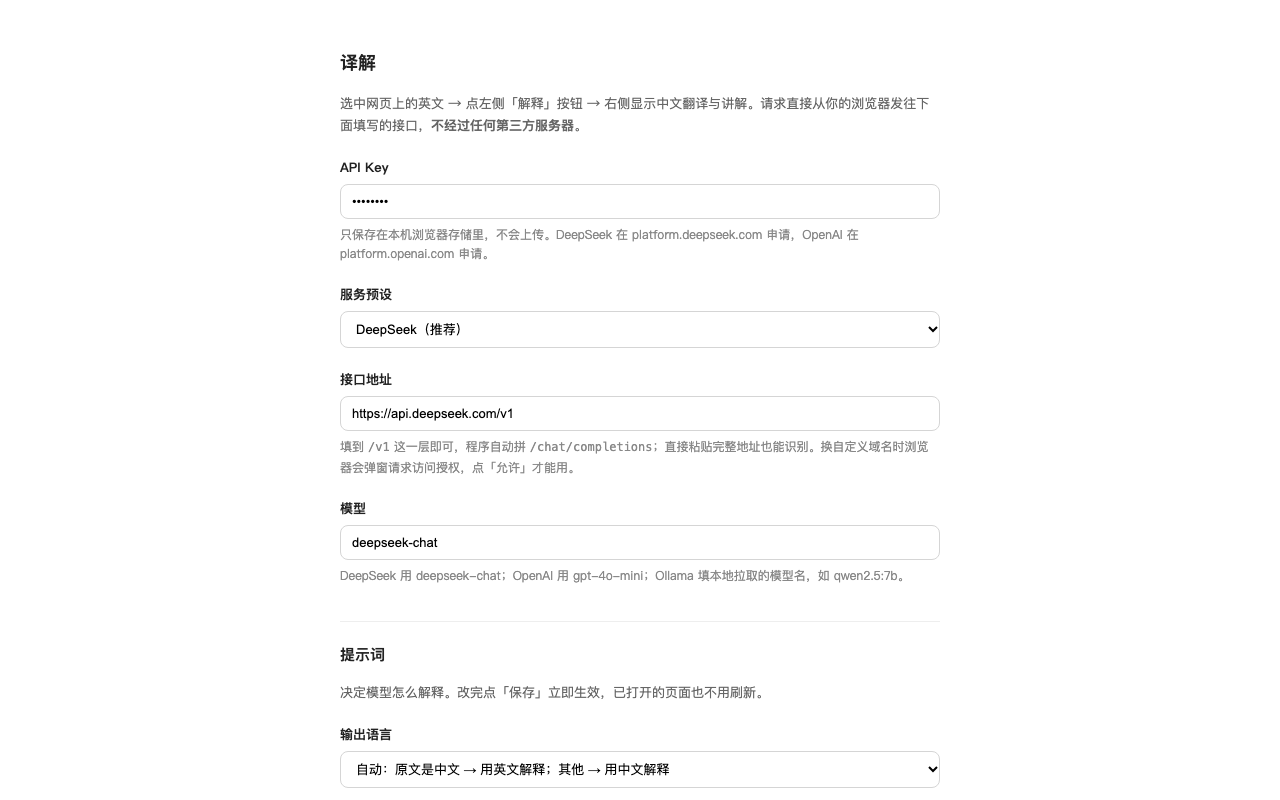
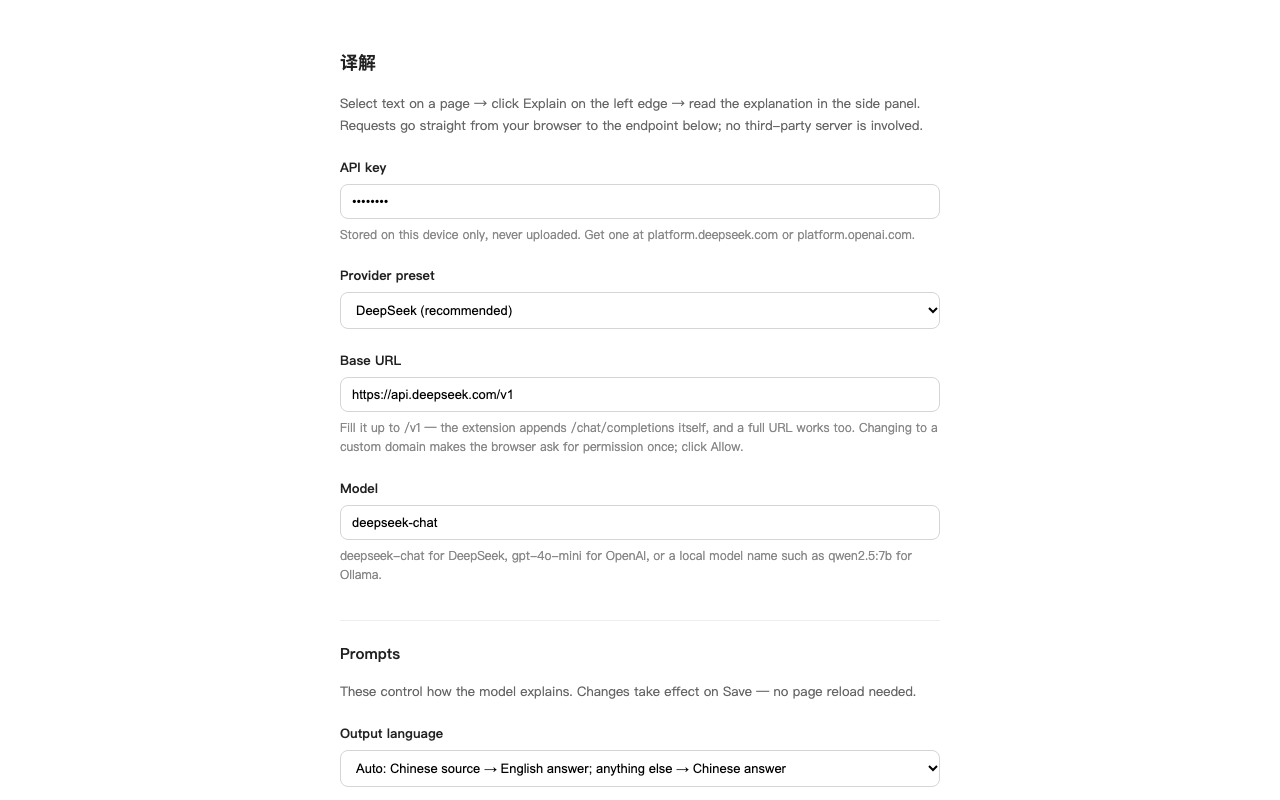
feat: 设置页按浏览器语言切换中英文
- 49 个界面字符串抽成 STR.zh / STR.en，HTML 用 data-i18n 标注
- 语言由 navigator.language 决定，与「输出语言」设置相互独立
- 状态提示、按钮、空状态、错误文案全部本地化
- 重截商店设置页截图（英文界面）
- 已验证：49 个键在中英两套里一一对应，无遗漏无冗余

diff --git a/src/options.js b/src/options.js
@@ -14,6 +14,130 @@ const PRESETS = {
   ollama: { baseUrl: "http://localhost:11434/v1", model: "qwen2.5:7b" }
 };
 
+// 设置页跟着浏览器语言走（和面板不同：面板跟的是"这次输出什么语言"）
+const UI_LANG = String(navigator.language || "en").toLowerCase().startsWith("zh") ? "zh" : "en";
+
+const STR = {
+  zh: {
+    pageTitle: "译解 · 设置",
+    intro: "选中网页上的文字 → 点左侧「解释」按钮 → 右侧显示中文翻译与讲解。请求直接从你的浏览器发往下面填写的接口，不经过任何第三方服务器。",
+    apiKeyLabel: "API Key",
+    apiKeyPlaceholder: "粘贴你的 API Key",
+    apiKeyHint: "只保存在本机浏览器存储里，不会上传。DeepSeek 在 platform.deepseek.com 申请，OpenAI 在 platform.openai.com 申请。",
+    presetLabel: "服务预设",
+    presetDeepseek: "DeepSeek（推荐）",
+    presetOpenai: "OpenAI",
+    presetOllama: "本地 Ollama",
+    presetCustom: "自定义 / 其他 OpenAI 兼容服务",
+    baseUrlLabel: "接口地址",
+    baseUrlHint: "填到 /v1 这一层即可，程序自动拼 /chat/completions；直接粘贴完整地址也能识别。换自定义域名时浏览器会弹窗请求访问授权，点「允许」才能用。",
+    modelLabel: "模型",
+    modelHint: "DeepSeek 用 deepseek-chat；OpenAI 用 gpt-4o-mini；Ollama 填本地拉取的模型名，如 qwen2.5:7b。",
+    promptsTitle: "提示词",
+    promptsIntro: "决定模型怎么解释。改完点「保存」立即生效，已打开的页面也不用刷新。",
+    outputLangLabel: "输出语言",
+    outputLangAuto: "自动：原文是中文 → 用英文解释；其他 → 用中文解释",
+    outputLangZh: "始终用中文解释",
+    detailsEnZh: "英文原文 → 中文讲解",
+    defaultPromptLabel: "默认提示词 · 点「解释」时使用",
+    detailPromptLabel: "详解提示词 · 面板里点「详解」时使用",
+    detailsZhEn: "中文原文 → English explanation",
+    zhEnHint: "选中中文时用这两段，输出英文，给读中文网站的英语用户。上方「输出语言」选「始终中文」时这两段不生效。",
+    zhDefaultLabel: "默认提示词 · 点「解释」时使用",
+    zhDetailLabel: "详解提示词 · 面板里点「详解」时使用",
+    save: "保存",
+    test: "测试连接",
+    resetPrompts: "恢复默认提示词",
+    clearKey: "清除 Key",
+    disabledTitle: "已禁用的站点",
+    disabledIntro: "在面板里点「本站禁用」会加到这里。点「恢复」立刻生效，不用刷新页面。",
+    restoreAll: "全部恢复",
+    usage: "用法：选中一段文字 → 点屏幕左侧「解释」按钮（或按 Alt+E）→ 右侧弹出面板，可切「详解」、可复制。",
+    needKey: "请先填写 API Key",
+    saved: "✅ 已保存",
+    noPermission: "❌ 没有获得访问 {origin} 的授权，无法调用接口",
+    promptsReset: "已恢复默认提示词，记得点保存",
+    keyCleared: "已清除 Key",
+    testing: "测试中…",
+    testOk: "✅ 连接成功",
+    test401: "❌ Key 无效：",
+    test404: "❌ 地址或模型不对：",
+    testFail: "❌ ",
+    testNet: "❌ 连不上该地址：检查地址、网络或代理",
+    presetFilled: "已填入预设，记得点保存",
+    noneDisabled: "（还没有禁用的站点）",
+    restore: "恢复",
+    restoredAll: "已恢复所有站点"
+  },
+  en: {
+    pageTitle: "Yijie · Settings",
+    intro: "Select text on a page → click Explain on the left edge → read the explanation in the side panel. Requests go straight from your browser to the endpoint below; no third-party server is involved.",
+    apiKeyLabel: "API key",
+    apiKeyPlaceholder: "Paste your API key",
+    apiKeyHint: "Stored on this device only, never uploaded. Get one at platform.deepseek.com or platform.openai.com.",
+    presetLabel: "Provider preset",
+    presetDeepseek: "DeepSeek (recommended)",
+    presetOpenai: "OpenAI",
+    presetOllama: "Local Ollama",
+    presetCustom: "Custom / another OpenAI-compatible service",
+    baseUrlLabel: "Base URL",
+    baseUrlHint: "Fill it up to /v1 — the extension appends /chat/completions itself, and a full URL works too. Changing to a custom domain makes the browser ask for permission once; click Allow.",
+    modelLabel: "Model",
+    modelHint: "deepseek-chat for DeepSeek, gpt-4o-mini for OpenAI, or a local model name such as qwen2.5:7b for Ollama.",
+    promptsTitle: "Prompts",
+    promptsIntro: "These control how the model explains. Changes take effect on Save — no page reload needed.",
+    outputLangLabel: "Output language",
+    outputLangAuto: "Auto: Chinese source → English answer; anything else → Chinese answer",
+    outputLangZh: "Always answer in Chinese",
+    detailsEnZh: "English source → Chinese explanation",
+    defaultPromptLabel: "Default prompt · used by Explain",
+    detailPromptLabel: "Detailed prompt · used by the Detailed button",
+    detailsZhEn: "Chinese source → English explanation",
+    zhEnHint: "Used when the selection is Chinese; the answer comes back in English. Ignored when Output language is set to Always Chinese.",
+    zhDefaultLabel: "Default prompt · used by Explain",
+    zhDetailLabel: "Detailed prompt · used by the Detailed button",
+    save: "Save",
+    test: "Test connection",
+    resetPrompts: "Reset prompts",
+    clearKey: "Clear key",
+    disabledTitle: "Disabled sites",
+    disabledIntro: "Sites you turned off from the panel appear here. Restore takes effect immediately, no page reload.",
+    restoreAll: "Restore all",
+    usage: "Usage: select some text → click Explain on the left edge (or press Alt+E) → the panel opens with a Detailed toggle and Copy.",
+    needKey: "Enter an API key first",
+    saved: "✅ Saved",
+    noPermission: "❌ Permission to reach {origin} was not granted",
+    promptsReset: "Default prompts restored — remember to save",
+    keyCleared: "Key cleared",
+    testing: "Testing…",
+    testOk: "✅ Connected",
+    test401: "❌ Invalid key: ",
+    test404: "❌ Wrong URL or model: ",
+    testFail: "❌ ",
+    testNet: "❌ Cannot reach that URL — check the address, network or proxy",
+    presetFilled: "Preset filled — remember to save",
+    noneDisabled: "(no disabled sites)",
+    restore: "Restore",
+    restoredAll: "All sites restored"
+  }
+};
+
+const T = STR[UI_LANG];
+const t = (key) => T[key] || key;
+
+function applyI18n() {
+  document.documentElement.lang = UI_LANG === "zh" ? "zh-CN" : "en";
+  document.title = t("pageTitle");
+  document.querySelectorAll("[data-i18n]").forEach((el) => {
+    el.textContent = t(el.dataset.i18n);
+  });
+  document.querySelectorAll("[data-i18n-placeholder]").forEach((el) => {
+    el.placeholder = t(el.dataset.i18nPlaceholder);
+  });
+}
+
+applyI18n();
+
 function status(text) {
   $("status").textContent = text;
 }
@@ -96,13 +220,13 @@ $("preset").addEventListener("change", () => {
   if (!p) return;
   $("baseUrl").value = p.baseUrl;
   $("model").value = p.model;
-  status("已填入预设，记得点保存");
+  status(t("presetFilled"));
 });
 
 $("save").addEventListener("click", async () => {
   const apiKey = cleanKey($("apiKey").value);
   if (!apiKey) {
-    status("请先填写 API Key");
+    status(t("needKey"));
     return;
   }
   const baseUrl = cleanBase($("baseUrl").value);
@@ -115,7 +239,7 @@ $("save").addEventListener("click", async () => {
 
   const granted = await ensureHostPermission(baseUrl);
   if (!granted) {
-    status("❌ 没有获得访问 " + originOf(baseUrl) + " 的授权，无法调用接口");
+    status(t("noPermission").replace("{origin}", originOf(baseUrl)));
     return;
   }
   chrome.storage.local.set(
@@ -123,7 +247,7 @@ $("save").addEventListener("click", async () => {
     () => {
       $("baseUrl").value = baseUrl;
       $("preset").value = matchPreset(baseUrl);
-      status("✅ 已保存");
+      status(t("saved"));
     }
   );
 });
@@ -133,13 +257,13 @@ $("resetPrompts").addEventListener("click", () => {
   $("detailPrompt").value = DEFAULT_DETAIL;
   $("systemPromptZh").value = DEFAULT_SYSTEM_ZH;
   $("detailPromptZh").value = DEFAULT_DETAIL_ZH;
-  status("已恢复默认提示词，记得点保存");
+  status(t("promptsReset"));
 });
 
 $("clearKey").addEventListener("click", () => {
   chrome.storage.local.remove("apiKey", () => {
     $("apiKey").value = "";
-    status("已清除 Key");
+    status(t("keyCleared"));
   });
 });
 
@@ -151,7 +275,7 @@ function renderDisabled() {
     if (!list.length) {
       const empty = document.createElement("p");
       empty.className = "hint";
-      empty.textContent = "（还没有禁用的站点）";
+      empty.textContent = t("noneDisabled");
       box.appendChild(empty);
       return;
     }
@@ -162,7 +286,7 @@ function renderDisabled() {
       name.textContent = host;
       const btn = document.createElement("button");
       btn.className = "ghost";
-      btn.textContent = "恢复";
+      btn.textContent = t("restore");
       btn.addEventListener("click", () => {
         chrome.storage.local.set({ disabledSites: list.filter((h) => h !== host) }, renderDisabled);
       });
@@ -176,7 +300,7 @@ function renderDisabled() {
 $("clearSites").addEventListener("click", () => {
   chrome.storage.local.set({ disabledSites: [] }, () => {
     renderDisabled();
-    status("已恢复所有站点");
+    status(t("restoredAll"));
   });
 });
 
@@ -188,7 +312,7 @@ chrome.storage.onChanged.addListener((changes, area) => {
 $("test").addEventListener("click", async () => {
   const apiKey = cleanKey($("apiKey").value);
   if (!apiKey) {
-    status("请先填写 API Key");
+    status(t("needKey"));
     return;
   }
   const baseUrl = cleanBase($("baseUrl").value);
@@ -196,11 +320,11 @@ $("test").addEventListener("click", async () => {
 
   const granted = await ensureHostPermission(baseUrl);
   if (!granted) {
-    status("❌ 没有获得访问 " + originOf(baseUrl) + " 的授权");
+    status(t("noPermission").replace("{origin}", originOf(baseUrl)));
     return;
   }
   $("baseUrl").value = baseUrl;
-  status("测试中…");
+  status(t("testing"));
   try {
     const r = await fetch(endpoint(baseUrl), {
       method: "POST",
@@ -213,17 +337,17 @@ $("test").addEventListener("click", async () => {
       })
     });
     if (r.ok) {
-      status("✅ 连接成功");
+      status(t("testOk"));
       return;
     }
     let msg = "HTTP " + r.status;
     try {
       msg = (await r.json())?.error?.message || msg;
     } catch (e) {}
-    const icon = r.status === 401 ? "❌ Key 无效：" : r.status === 404 ? "❌ 地址或模型不对：" : "❌ ";
-    status(icon + msg);
+    const prefix = r.status === 401 ? t("test401") : r.status === 404 ? t("test404") : t("testFail");
+    status(prefix + msg);
   } catch (e) {
     const m = String((e && e.message) || e);
-    status(/Failed to fetch|NetworkError/i.test(m) ? "❌ 连不上该地址：检查地址、网络或代理" : "❌ " + m);
+    status(/Failed to fetch|NetworkError/i.test(m) ? t("testNet") : t("testFail") + m);
   }
 });

diff --git a/src/options.html b/src/options.html
@@ -14,79 +14,77 @@
  button{padding:7px 14px;border-radius:8px;border:none;background:#1f3864;color:#fff;font-size:13px;cursor:pointer}
  button.ghost{background:#eee;color:#333}
  #status{font-size:12px;color:#777}
- .site-row{display:flex;justify-content:space-between;align-items:center;padding:7px 0;border-bottom:1px solid #f0f0f0}
- .site-row span{font:12.5px/1.5 ui-monospace,Menlo,monospace;color:#333}
- .site-row button{padding:3px 12px;font-size:12px}
  details{margin-top:18px;border:1px solid #eee;border-radius:10px;padding:0 14px 6px}
  summary{cursor:pointer;font-size:13px;font-weight:600;padding:12px 0;user-select:none}
  details[open] summary{border-bottom:1px solid #f2f2f2;margin-bottom:4px}
+ .site-row{display:flex;justify-content:space-between;align-items:center;padding:7px 0;border-bottom:1px solid #f0f0f0}
+ .site-row span{font:12.5px/1.5 ui-monospace,Menlo,monospace;color:#333}
+ .site-row button{padding:3px 12px;font-size:12px}
 </style>
 <h1>译解</h1>
-<p>选中网页上的英文 → 点左侧「解释」按钮 → 右侧显示中文翻译与讲解。请求直接从你的浏览器发往下面填写的接口，<b>不经过任何第三方服务器</b>。</p>
+<p data-i18n="intro">选中网页上的文字 → 点左侧「解释」按钮 → 右侧显示中文翻译与讲解。请求直接从你的浏览器发往下面填写的接口，不经过任何第三方服务器。</p>
 
-<label>API Key</label>
-<input id="apiKey" type="password" placeholder="粘贴你的 API Key" autocomplete="off" spellcheck="false">
-<p class="hint">只保存在本机浏览器存储里，不会上传。DeepSeek 在 platform.deepseek.com 申请，OpenAI 在 platform.openai.com 申请。</p>
+<label data-i18n="apiKeyLabel">API Key</label>
+<input id="apiKey" type="password" data-i18n-placeholder="apiKeyPlaceholder" placeholder="粘贴你的 API Key" autocomplete="off" spellcheck="false">
+<p class="hint" data-i18n="apiKeyHint">只保存在本机浏览器存储里，不会上传。DeepSeek 在 platform.deepseek.com 申请，OpenAI 在 platform.openai.com 申请。</p>
 
-<label>服务预设</label>
+<label data-i18n="presetLabel">服务预设</label>
 <select id="preset">
-  <option value="deepseek">DeepSeek（推荐）</option>
-  <option value="openai">OpenAI</option>
-  <option value="ollama">本地 Ollama</option>
-  <option value="custom">自定义 / 其他 OpenAI 兼容服务</option>
+  <option value="deepseek" data-i18n="presetDeepseek">DeepSeek（推荐）</option>
+  <option value="openai" data-i18n="presetOpenai">OpenAI</option>
+  <option value="ollama" data-i18n="presetOllama">本地 Ollama</option>
+  <option value="custom" data-i18n="presetCustom">自定义 / 其他 OpenAI 兼容服务</option>
 </select>
 
-<label>接口地址</label>
+<label data-i18n="baseUrlLabel">接口地址</label>
 <input id="baseUrl" placeholder="https://api.deepseek.com/v1" spellcheck="false">
-<p class="hint">填到 <code>/v1</code> 这一层即可，程序自动拼 <code>/chat/completions</code>；直接粘贴完整地址也能识别。换自定义域名时浏览器会弹窗请求访问授权，点「允许」才能用。</p>
+<p class="hint" data-i18n="baseUrlHint">填到 /v1 这一层即可，程序自动拼 /chat/completions；直接粘贴完整地址也能识别。换自定义域名时浏览器会弹窗请求访问授权，点「允许」才能用。</p>
 
-<label>模型</label>
+<label data-i18n="modelLabel">模型</label>
 <input id="model" placeholder="deepseek-chat" spellcheck="false">
-<p class="hint">DeepSeek 用 deepseek-chat；OpenAI 用 gpt-4o-mini；Ollama 填本地拉取的模型名，如 qwen2.5:7b。</p>
+<p class="hint" data-i18n="modelHint">DeepSeek 用 deepseek-chat；OpenAI 用 gpt-4o-mini；Ollama 填本地拉取的模型名，如 qwen2.5:7b。</p>
 
-<h2>提示词</h2>
-<p>决定模型怎么解释。改完点「保存」立即生效，已打开的页面也不用刷新。</p>
+<h2 data-i18n="promptsTitle">提示词</h2>
+<p data-i18n="promptsIntro">决定模型怎么解释。改完点「保存」立即生效，已打开的页面也不用刷新。</p>
 
-<label>输出语言</label>
+<label data-i18n="outputLangLabel">输出语言</label>
 <select id="outputLang">
-  <option value="auto">自动：原文是中文 → 用英文解释；其他 → 用中文解释</option>
-  <option value="zh">始终用中文解释</option>
+  <option value="auto" data-i18n="outputLangAuto">自动：原文是中文 → 用英文解释；其他 → 用中文解释</option>
+  <option value="zh" data-i18n="outputLangZh">始终用中文解释</option>
 </select>
 
 <details open>
-  <summary>英文原文 → 中文讲解</summary>
-  <label>默认提示词 · 点「解释」时使用</label>
+  <summary data-i18n="detailsEnZh">英文原文 → 中文讲解</summary>
+  <label data-i18n="defaultPromptLabel">默认提示词 · 点「解释」时使用</label>
   <textarea id="systemPrompt" rows="8" spellcheck="false"></textarea>
-  <label>详解提示词 · 面板里点「详解」时使用</label>
+  <label data-i18n="detailPromptLabel">详解提示词 · 面板里点「详解」时使用</label>
   <textarea id="detailPrompt" rows="10" spellcheck="false"></textarea>
 </details>
 
 <details>
-  <summary>中文原文 → English explanation</summary>
-  <p class="hint">选中中文时用这两段，输出英文，给读中文网站的英语用户。上方「输出语言」选「始终中文」时这两段不生效。</p>
-  <label>Default prompt · used by 「解释」</label>
+  <summary data-i18n="detailsZhEn">中文原文 → English explanation</summary>
+  <p class="hint" data-i18n="zhEnHint">选中中文时用这两段，输出英文，给读中文网站的英语用户。上方「输出语言」选「始终中文」时这两段不生效。</p>
+  <label data-i18n="zhDefaultLabel">默认提示词 · 点「解释」时使用</label>
   <textarea id="systemPromptZh" rows="8" spellcheck="false"></textarea>
-  <label>Detailed prompt · used by 「详解」</label>
+  <label data-i18n="zhDetailLabel">详解提示词 · 面板里点「详解」时使用</label>
   <textarea id="detailPromptZh" rows="10" spellcheck="false"></textarea>
 </details>
 
 <div class="row">
-  <button id="save">保存</button>
-  <button id="test" class="ghost">测试连接</button>
-  <button id="resetPrompts" class="ghost">恢复默认提示词</button>
-  <button id="clearKey" class="ghost">清除 Key</button>
+  <button id="save" data-i18n="save">保存</button>
+  <button id="test" class="ghost" data-i18n="test">测试连接</button>
+  <button id="resetPrompts" class="ghost" data-i18n="resetPrompts">恢复默认提示词</button>
+  <button id="clearKey" class="ghost" data-i18n="clearKey">清除 Key</button>
   <span id="status"></span>
 </div>
 
-<h2>已禁用的站点</h2>
-<p>在面板里点「本站禁用」会加到这里。点「恢复」立刻生效，不用刷新页面。</p>
+<h2 data-i18n="disabledTitle">已禁用的站点</h2>
+<p data-i18n="disabledIntro">在面板里点「本站禁用」会加到这里。点「恢复」立刻生效，不用刷新页面。</p>
 <div id="disabledList"></div>
 <div class="row" style="margin-top:14px">
-  <button id="clearSites" class="ghost">全部恢复</button>
+  <button id="clearSites" class="ghost" data-i18n="restoreAll">全部恢复</button>
 </div>
 
-<p class="hint" style="margin-top:28px">
-用法：选中一段英文 → 点屏幕左侧「解释」按钮（或按 <b>Alt+E</b>）→ 右侧弹出面板，可切「详解」、可复制。
-</p>
+<p class="hint" style="margin-top:28px" data-i18n="usage">用法：选中一段文字 → 点屏幕左侧「解释」按钮（或按 Alt+E）→ 右侧弹出面板，可切「详解」、可复制。</p>
 <script src="defaults.js"></script>
 <script src="options.js"></script>

diff --git a/docs/store-listing.md b/docs/store-listing.md
@@ -131,9 +131,11 @@ Explain text that the user selects on a web page, in the user's own language, us
 | `shot-1.png` | 英文文章 → 中文讲解（简明） | 1（商店首图） |
 | `shot-2.png` | 中文文章 → 英文讲解 | 2 |
 | `shot-3.png` | 学术论文 → 中文详解 | 3 |
+| `shot-4.png` | 设置页（英文界面，BYOK 展示） | 4 |
 | `tile-440x280.png` | 小型宣传图（可选） | — |
 
-> `shot-4.png`（设置页）**暂时不要上传**：设置页目前只有中文界面，而商品页是英文，审核可能认为与描述不符。等设置页做完 i18n 再补第 4 张。
+> 设置页已经做了 i18n：界面语言跟随**浏览器语言**（中文浏览器显示中文，其他显示英文）。
+> `shot-4.png` 是在 `--lang=en-US` 下截的，对应英文用户看到的界面。
 
 ---
 
